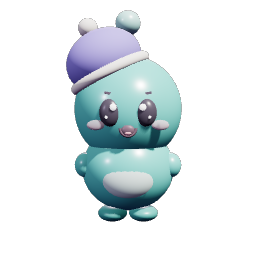
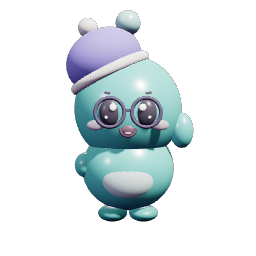
Site: the closet picture shows the new poses and shelves

Changed region(s): [[0.3438, 0.375, 0.6562, 0.5312], [0.6562, 0.4375, 0.7812, 0.7188]]

diff --git a/site/index.html b/site/index.html
@@ -144,11 +144,11 @@
       </ul>
     </div>
     <div class="closet-pic">
-      <img src="img/antenna-hat.png" alt="Teal in a beanie" width="256" height="256">
-      <img src="img/ears-hat.png" alt="Pink in a flower crown" width="256" height="256">
-      <img src="img/leaf-hat.png" alt="Green in a crown, leaf poking through" width="256" height="256">
-      <img src="img/horns-hat.png" alt="Gold in a party hat" width="256" height="256">
-      <p class="cap">Straight from the closet: beanie, flower crown, crown, party hat.</p>
+      <img src="img/antenna-hat.png" alt="Teal waving, in a beanie and glasses" width="256" height="256">
+      <img src="img/ears-hat.png" alt="Pink in a flower crown and headphones" width="256" height="256">
+      <img src="img/leaf-hat.png" alt="Green sitting, in a crown with the leaf poking through" width="256" height="256">
+      <img src="img/horns-hat.png" alt="Gold in a party hat and sunglasses" width="256" height="256">
+      <p class="cap">Teal waving in a beanie and glasses. Pink in headphones and a flower crown. Green sitting in a crown. Gold in shades and a party hat.</p>
     </div>
   </div>
 </section>

diff --git a/tools/build_site.py b/tools/build_site.py
@@ -20,7 +20,13 @@ from perchling import Frames  # noqa: E402  (compose() needs no window)
 SITE = ROOT / "site"
 IMG = SITE / "img"
 PETS = ["antenna", "ears", "leaf", "horns"]
-HAT_FOR = {"antenna": "beanie", "ears": "flowers", "leaf": "crown", "horns": "party"}
+# the dressed stills: what each pet wears and what it is doing in the closet picture
+DRESSED = {
+    "antenna": ("happy", "wave2", {"hat": "beanie", "face": "glasses"}),
+    "ears":    ("happy", "idle", {"hat": "flowers", "ears": "headphones"}),
+    "leaf":    ("happy", "sit", {"hat": "crown"}),
+    "horns":   ("happy", "idle", {"hat": "party", "face": "sunglasses"}),
+}
 
 
 def stills():
@@ -30,11 +36,12 @@ def stills():
         fr = Frames(pet, 256)
         plain = fr.compose("happy", "idle", 0)
         plain.save(IMG / f"{pet}.png", optimize=True)
-        hat = HAT_FOR[pet] if fr.has_item(HAT_FOR[pet]) else None
-        dressed = fr.compose("happy", "idle", 0, {"hat": hat} if hat else None)
+        mood, pose, wearing = DRESSED[pet]
+        wearing = {k: v for k, v in wearing.items() if fr.has_item(v)}
+        dressed = fr.compose(mood, pose, 0, wearing)
         dressed.save(IMG / f"{pet}-hat.png", optimize=True)
         out[pet] = (plain, dressed)
-        print(f"{pet}: still{' + ' + hat if hat else ''}")
+        print(f"{pet}: still + {pose} in {', '.join(wearing.values()) or 'nothing'}")
     return out
 
 
